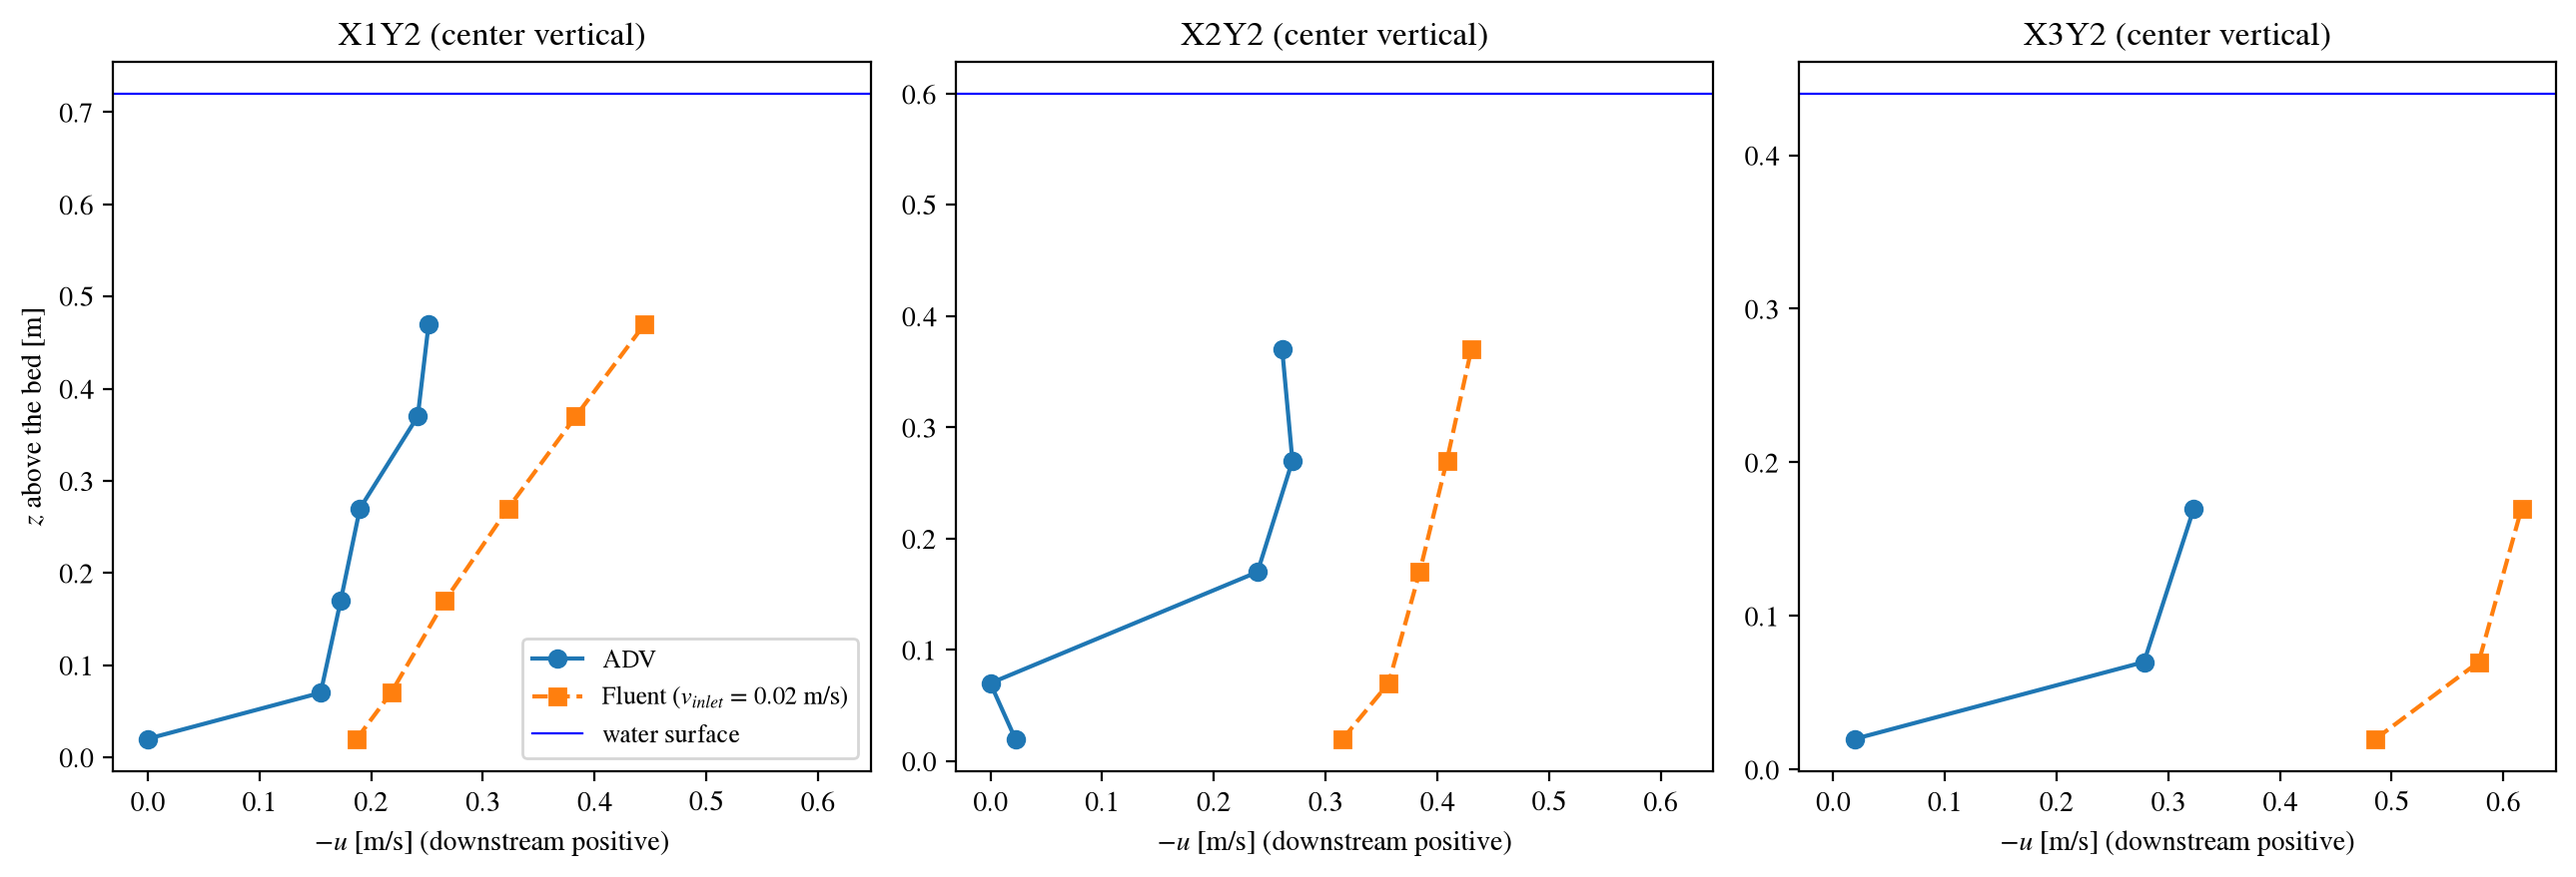
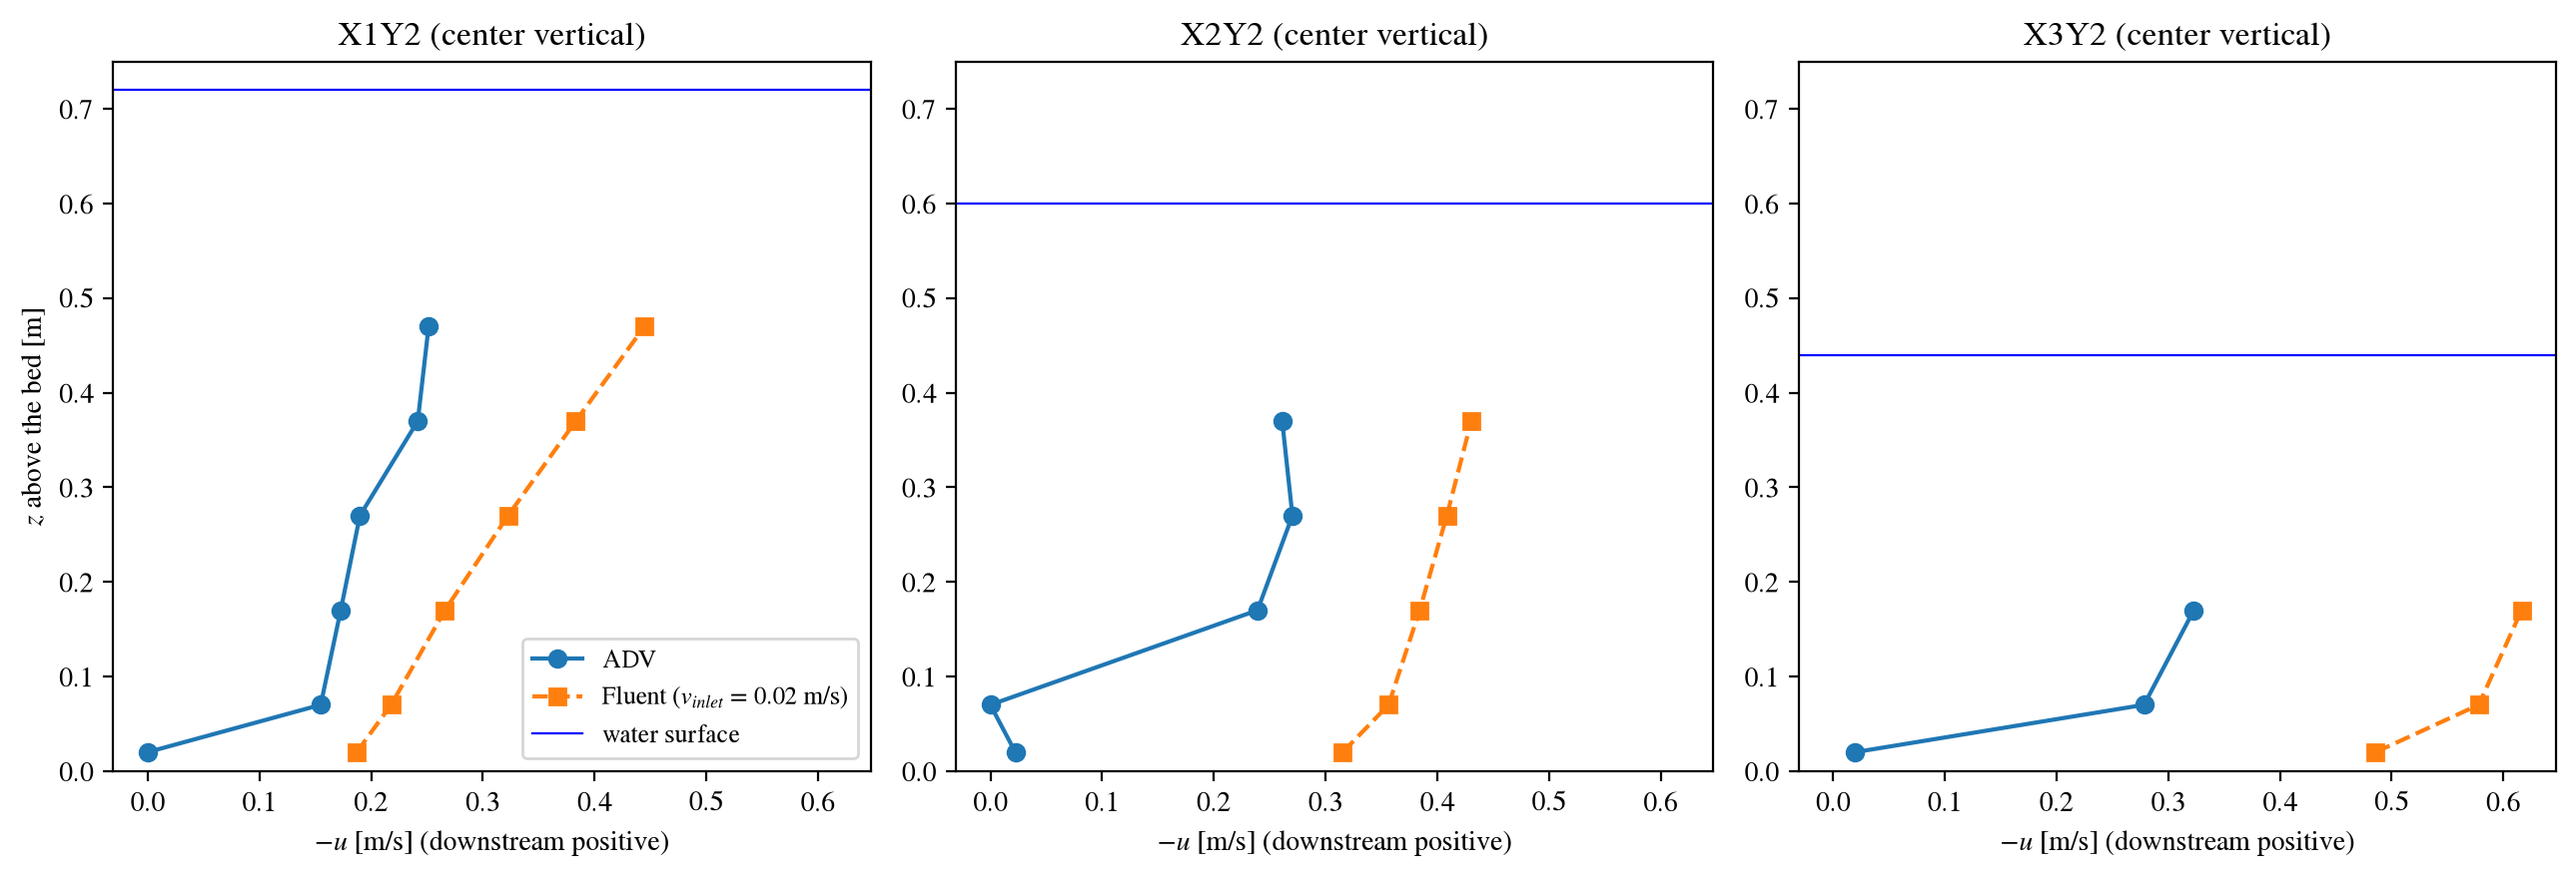
Fluent vs ADV profiles: same z range (0-0.75 m) in all subplots

diff --git a/code/main_Fluent.py b/code/main_Fluent.py
@@ -95,7 +95,7 @@ def plot_profiles(final, U_adv, v_inlet):
         ax.plot([-final[f"velocity-{n}"] for n in cfd], [Z_s[int(n[5]) - 1] for n in cfd], "s--",
                 label=f"Fluent ($v_{{inlet}}$ = {v_inlet} m/s)")
         ax.axhline(W_d[k - 1][1], color="b", lw=0.8, label="water surface")
-        ax.set(title=f"X{k}Y2 (center vertical)", xlabel="$-u$ [m/s] (downstream positive)")
+        ax.set(title=f"X{k}Y2 (center vertical)", xlabel="$-u$ [m/s] (downstream positive)", ylim=(0, 0.75))
     axs[0].set_ylabel("$z$ above the bed [m]")
     axs[0].legend(fontsize=9)
     fig.tight_layout()
